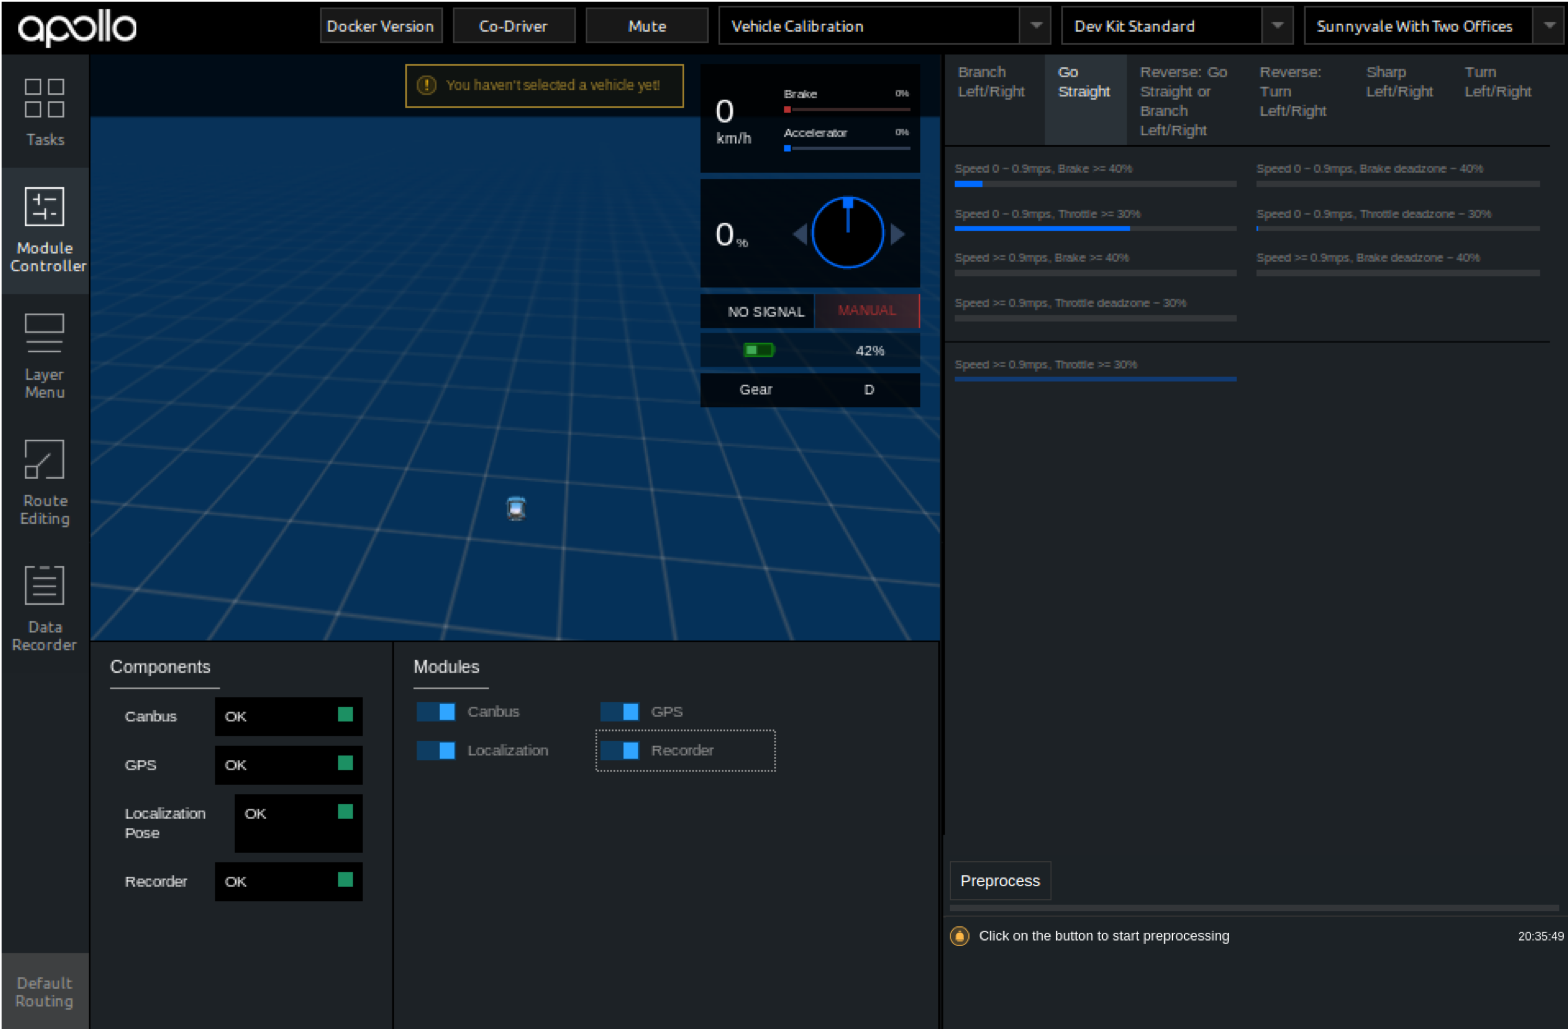
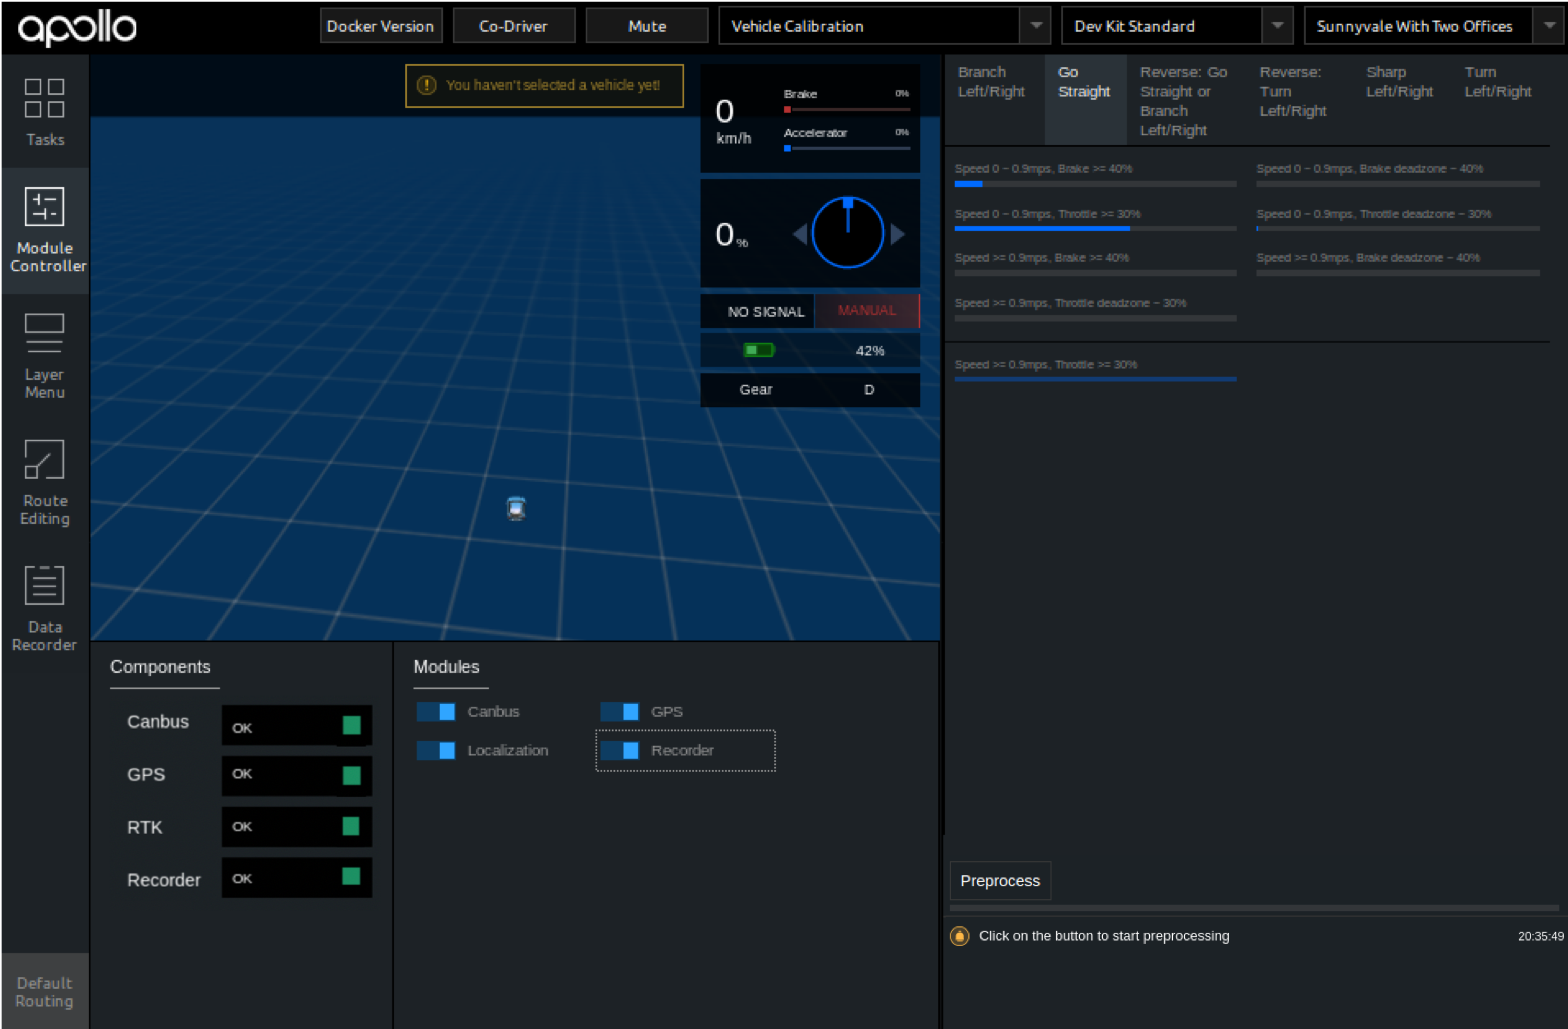
docs: DKIT: modify the vehicle calibration online guide

Changed region(s): [[0.0625, 0.6531, 0.25, 0.8707]]

diff --git a/docs/D-kit/Waypoint_Following/vehicle_calibration_online_cn.md b/docs/D-kit/Waypoint_Following/vehicle_calibration_online_cn.md
@@ -220,7 +220,7 @@
 
 ![vehicle_calibration_launch_modules](images/vehicle_calibratio_launch_modules.png)
 
-通过左侧`Components`查看`Canbus`、`GPS`、`Localization Pose`状态，直到信号都达到`OK`才能够进行下一步。
+通过左侧`Components`查看`Canbus`、`GPS`、`RTK`状态，直到信号都达到`OK`才能够进行下一步。`Localization`启动后，需要等待1~2分钟，`RTK`状态才能变成OK。
 
 ![vehicle_calibration_check_components.png](images/vehicle_calibration_check_components.png)
 
